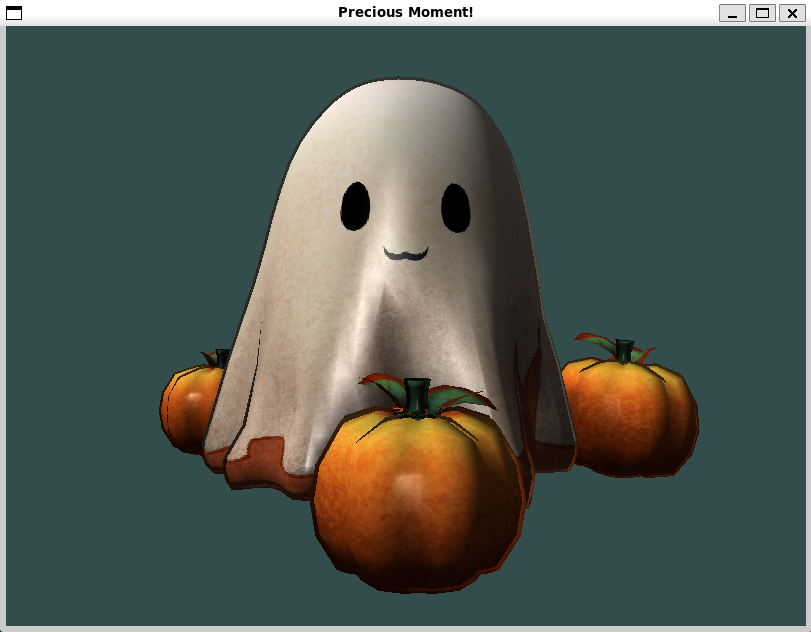
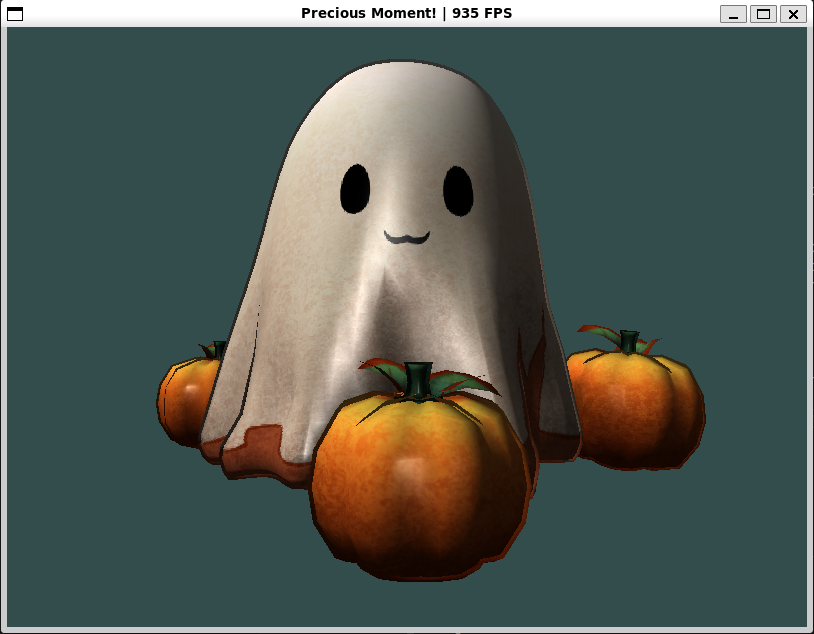
✨ feat(title): show fps on title

diff --git a/src/controller/app.cpp b/src/controller/app.cpp
@@ -30,7 +30,26 @@ void App::run() {
     }
 
     renderSystem->update(transformComponents, renderComponents);
+
+    handle_frame_timing();
   }
+}
+
+void App::handle_frame_timing() {
+  currentTime = glfwGetTime();
+  double delta = currentTime - lastTime;
+
+  if (delta >= 1) {
+    int framerate{std::max(1, int(numFrames / delta))};
+    std::stringstream title;
+    title << "Precious Moment! | " << framerate << " FPS";
+    glfwSetWindowTitle(window, title.str().c_str());
+    lastTime = currentTime;
+    numFrames = -1;
+    frameTime = float(1000.0 / framerate);
+  }
+
+  ++numFrames;
 }
 
 void App::set_up_glfw() {

diff --git a/src/controller/app.h b/src/controller/app.h
@@ -29,6 +29,7 @@ public:
 
 private:
   void set_up_glfw();
+  void handle_frame_timing();
 
   GLFWwindow *window;
 
@@ -38,4 +39,9 @@ private:
   MotionSystem *motionSystem;
   CameraSystem *cameraSystem;
   RenderSystem *renderSystem;
+
+  // Timing
+  double lastTime, currentTime;
+  int numFrames;
+  float frameTime;
 };
